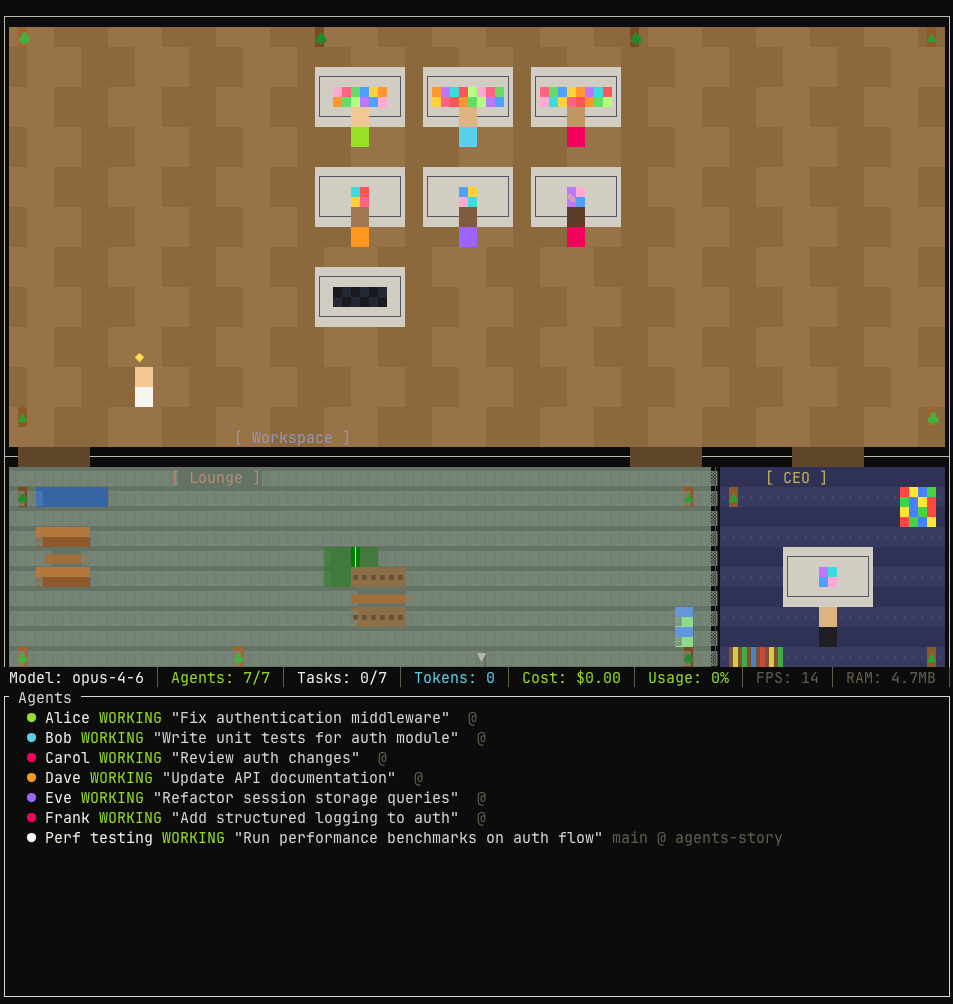
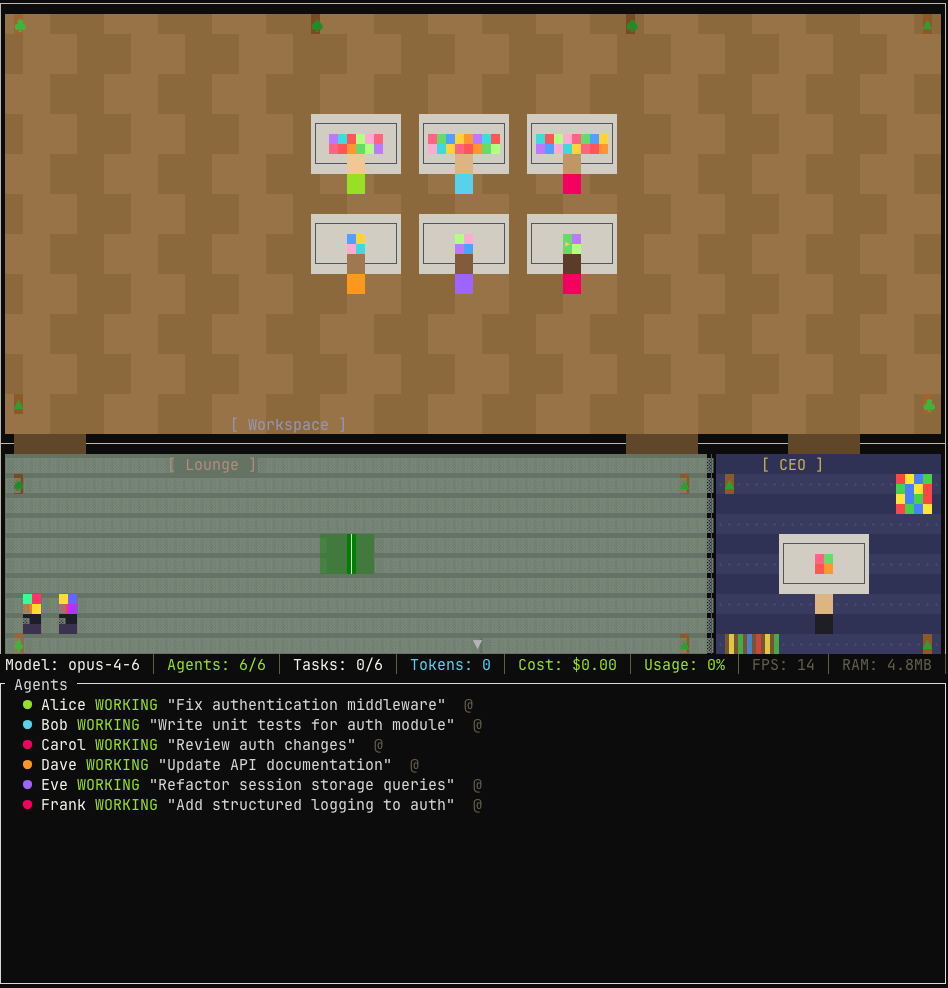
fix: desks match active agents, arcade renders correctly as 2x2

diff --git a/src/ui/floor_view.rs b/src/ui/floor_view.rs
@@ -120,16 +120,17 @@ impl<'a> Widget for FloorView<'a> {
                     CellType::PingPongTable => ('▒', sprites::PING_PONG_COLOR, bg),
                     CellType::PingPongNet => ('│', sprites::PING_PONG_NET_COLOR, sprites::PING_PONG_COLOR),
                     CellType::Arcade => {
-                        // Top row = animated screen, bottom row = cabinet body
-                        let is_screen_row = gy % 2 == 0;
-                        if is_screen_row {
-                            // Screen: half-block with 2 animated neon colors
+                        // Check if this is the top or bottom row of the 2×2 arcade
+                        let above_is_arcade = gy > 0 && floor.grid[gy - 1][gx] == CellType::Arcade;
+                        let below_is_arcade = gy + 1 < grid_h && floor.grid[gy + 1][gx] == CellType::Arcade;
+                        if !above_is_arcade && below_is_arcade {
+                            // Top row: animated neon screen
                             let len = sprites::ARCADE_SCREEN_COLORS.len();
                             let p1 = ((self.tick / 8) as usize + gx * 5) % len;
                             let p2 = ((self.tick / 8) as usize + gx * 5 + 3) % len;
                             ('▀', sprites::ARCADE_SCREEN_COLORS[p1], sprites::ARCADE_SCREEN_COLORS[p2])
                         } else {
-                            // Cabinet body with trim
+                            // Bottom row: dark cabinet
                             ('▄', sprites::ARCADE_TRIM_COLOR, sprites::ARCADE_CABINET_COLOR)
                         }
                     }

diff --git a/src/app.rs b/src/app.rs
@@ -156,10 +156,13 @@ impl App {
                 && !a.is_animating())
         });
 
-        // Remove unoccupied desks and remap agent desk indices
+        // Remove desks that no agent references
+        let referenced_desks: std::collections::HashSet<usize> = self.state.agents.iter()
+            .filter_map(|a| a.assigned_desk)
+            .collect();
         let occupied_indices: Vec<usize> = self.state.floor.desks.iter()
             .enumerate()
-            .filter(|(_, d)| d.occupied)
+            .filter(|(i, _)| referenced_desks.contains(i))
             .map(|(i, _)| i)
             .collect();
 
